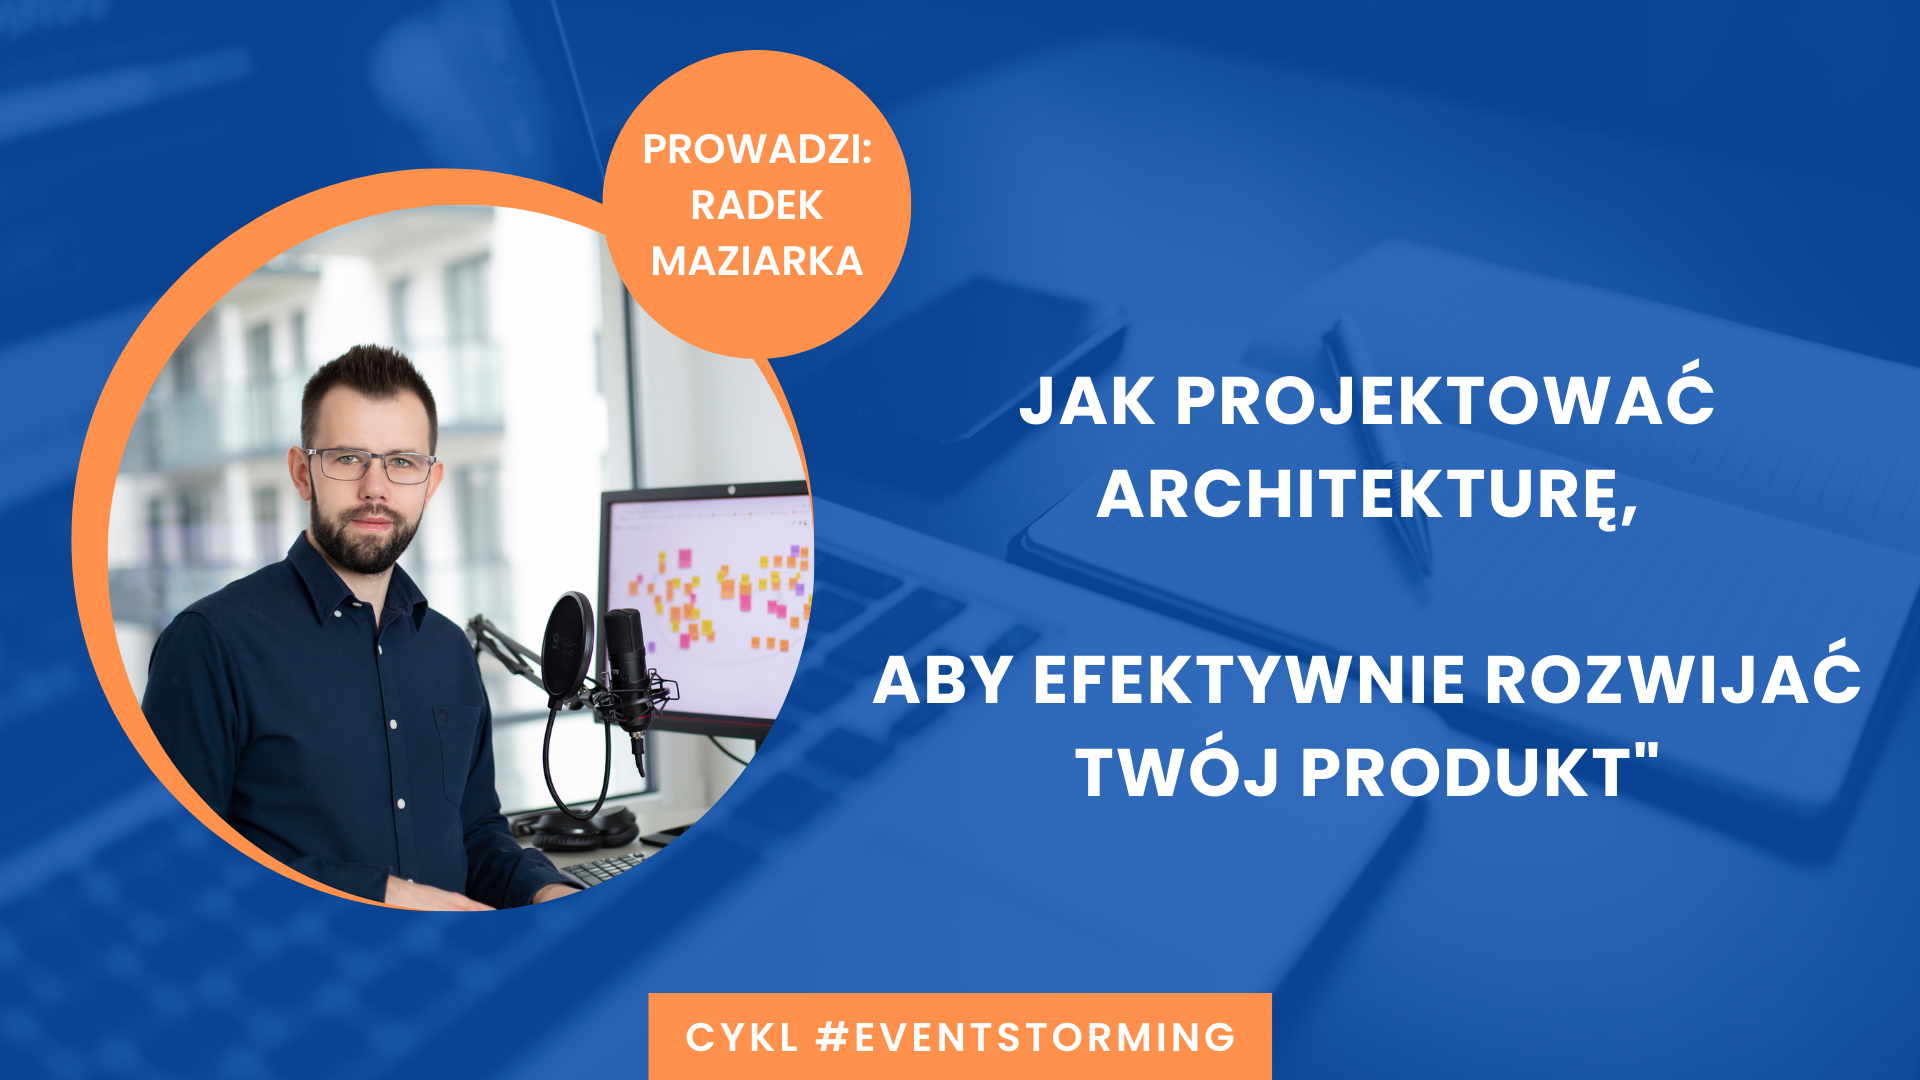
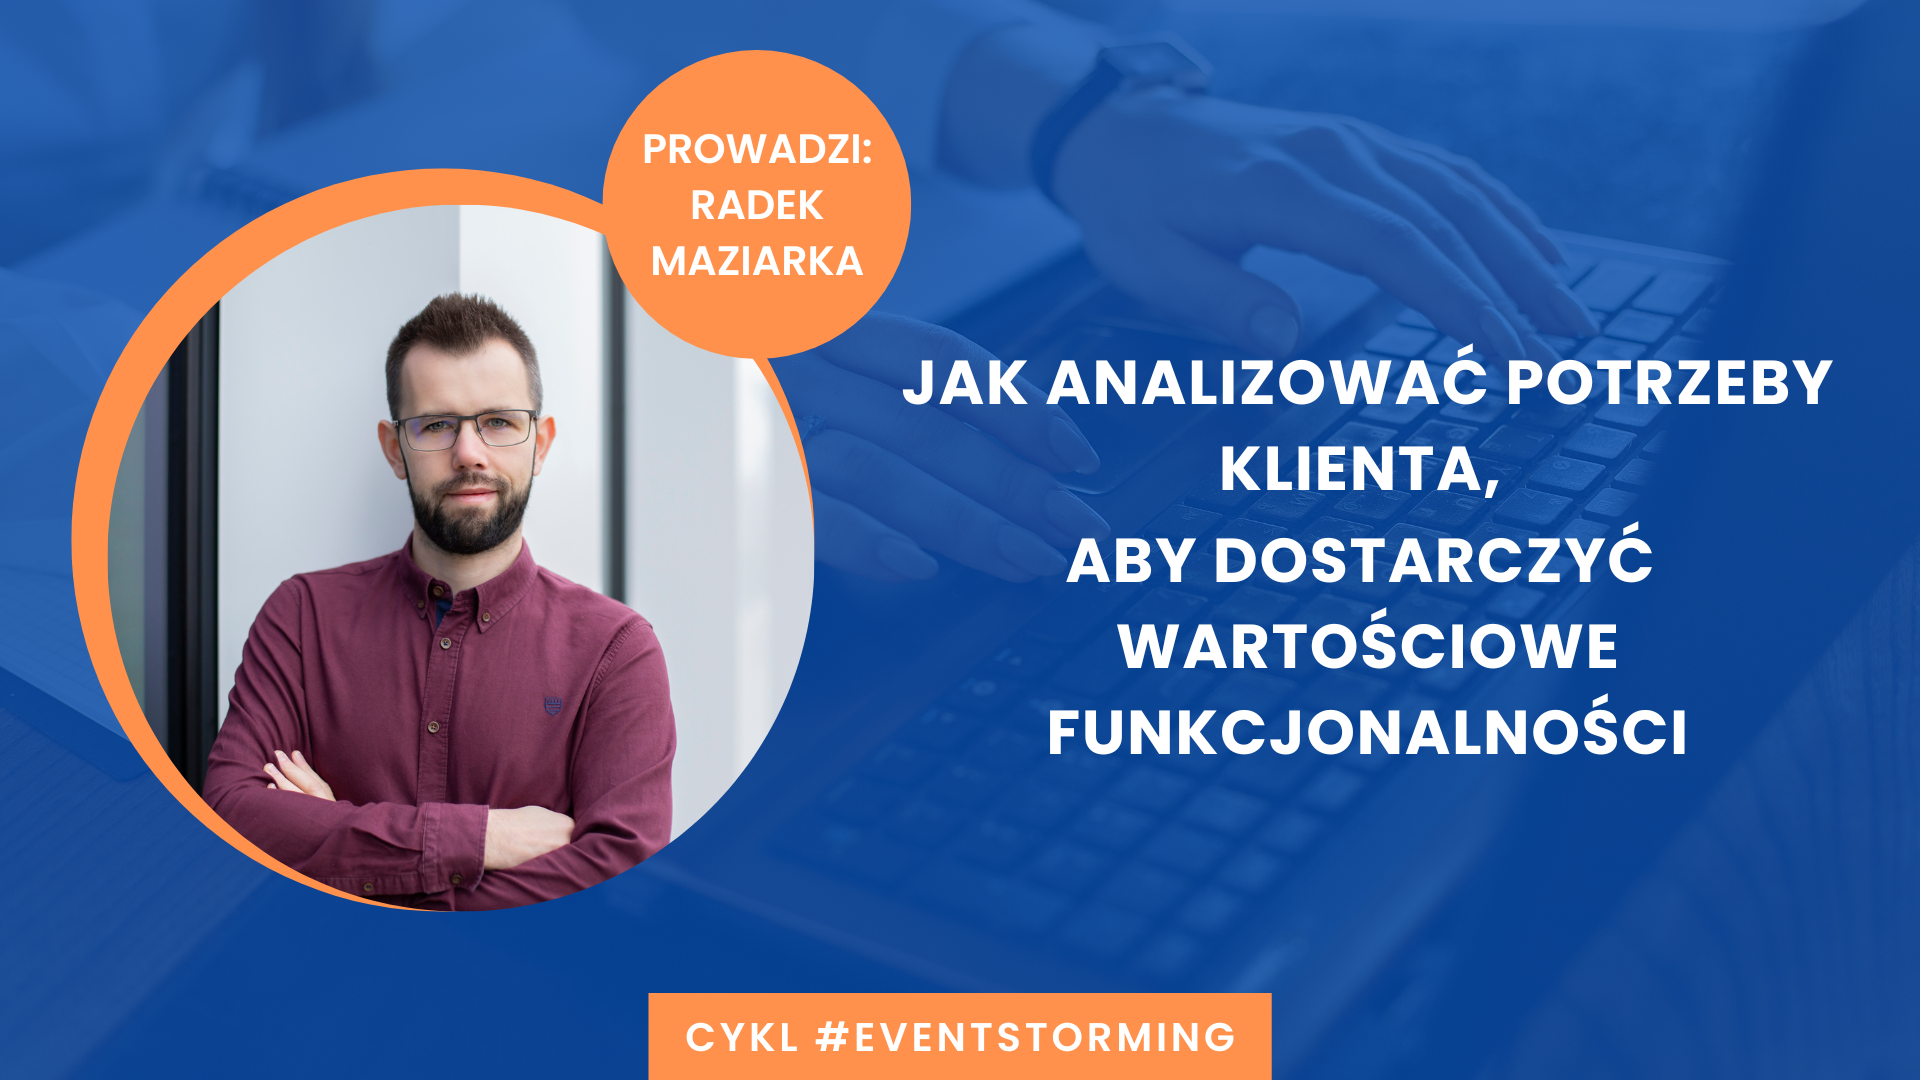
Update webinar page to the new webinar

diff --git a/page/content/pl/webinars/webinary-event-storming/index.html b/page/content/pl/webinars/webinary-event-storming/index.html
@@ -1,5 +1,5 @@
 ---
-title: 'Jak wykonać analizę potrzeb klienta, aby określić wszystkie kluczowe przypadki biznesowe'
+title: 'Jak analizować potrzeby klienta,aby dostarczyć wartościowe funkcjonalności'
 date: Wed, 13 Mar 2019 19:45:45 +0000
 draft: false
 url: '/webinary-event-storming'
@@ -32,12 +32,12 @@ layout: 'webinars'
         <div class="row">
             <div class="col-sm-12 text-center">
                 <h4>Kolejny webinar:</h4>
-                <h2>"Jak projektować nowe funkcjonalności, <br/> aby spełnić potrzeby twojego klienta"</h2>
+                <h2>"Jak analizować potrzeby klienta, <br/> aby dostarczyć wartościowe funkcjonalności"</h2>
                 <h4 class="mt-40">Kiedy:</h4>
                 <h3>25 sierpnia 18:00-19:00</h3>
                 <h4 class="mt-40">Zostało:</h4>
                 <h3 id="countdown"></h3>
-                <p class="mt-60  mb-10">Spotkanie będzie transmitowane na <a href="https://www.youtube.com/watch?v=J-MwoofvL_g">YouTube</a>.</p>
+                <p class="mt-60  mb-10">Spotkanie będzie transmitowane na <a href="https://www.youtube.com/watch?v=kAU2EGJ8vCs">YouTube</a>.</p>
                 <a href="#newsletter"  class="btn btn-theme-colored4 btn-lg">Chcę dostęp ekstra</a>
                 <p class="mt-10 mb-0"><strong>Dzięki dostępowi ekstra przez newsletter:</strong></p>
                 <div>
@@ -121,9 +121,9 @@ layout: 'webinars'
                 </div>
             </div>
             <div class="col-sm-10 offset-md-1 mt-60  mt-xs-20" style="font-size:150%;">
-                <div>✅ Dowiesz się jak <strong>płytka analiza utrudnia zrozumienie</strong> potrzeb biznesowych.</div>
-                <div>✅ Poznasz <strong>dobre praktyki analizy</strong>, skupionej na definicji kluczowych aspektów.</div>
-                <div>✅ Zobaczysz jak wykorzystać <strong>Event Storming do analizy biznesowej</strong> Twojego produktu.</div>
+                <div>✅ Poznasz czym się <strong>różni zbieranie wymagań od ich analizy</strong></div>
+                <div>✅ Dowiesz się jak <strong>określić kluczowe przypadki użycia</strong>, reguły biznesowe, ograniczenia, ryzyka.</div>
+                <div>✅ Poznasz jak wykorzystywać <strong>Event Storming do dowiezienia wartościowej funkcjonalności.</strong></div>
             </div>
         </div>
     </div>
@@ -190,12 +190,12 @@ layout: 'webinars'
             <div class="col-md-12">
                 <h3 class="text-center mt-60 mb-20">Poruszane tematy (m.in.):</h3>
             </div>
-            <div class="col-md-6 webinar-information-topic-text"><h4>Scope Creep</h4></div>
-            <div class="col-md-6 webinar-information-topic-icon"><img src="avalanche.png"/></div>
-            <div class="col-md-6 mt-30 webinar-information-topic-text"><h4>Use cases</h4></div>
-            <div class="col-md-6 webinar-information-topic-icon mt-30"><img src="relational.png"/></div>
-            <div class="col-md-6 mt-30 webinar-information-topic-text"><h4>Logical Boundaries</h4></div>
-            <div class="col-md-6 mt-30 webinar-information-topic-icon"><img src="area.png"/></div>
+            <div class="col-md-6 webinar-information-topic-text"><h4>Przypadki użycia</h4></div>
+            <div class="col-md-6 webinar-information-topic-icon"><img src="use-case.png"/></div>
+            <div class="col-md-6 mt-30 webinar-information-topic-text"><h4>Reguły biznesowe</h4></div>
+            <div class="col-md-6 webinar-information-topic-icon mt-30"><img src="business-rule.png"/></div>
+            <div class="col-md-6 mt-30 webinar-information-topic-text"><h4>Atrybuty jakościowe</h4></div>
+            <div class="col-md-6 mt-30 webinar-information-topic-icon"><img src="quality-attribute.png"/></div>
         </div>
     </div>
 </section>
